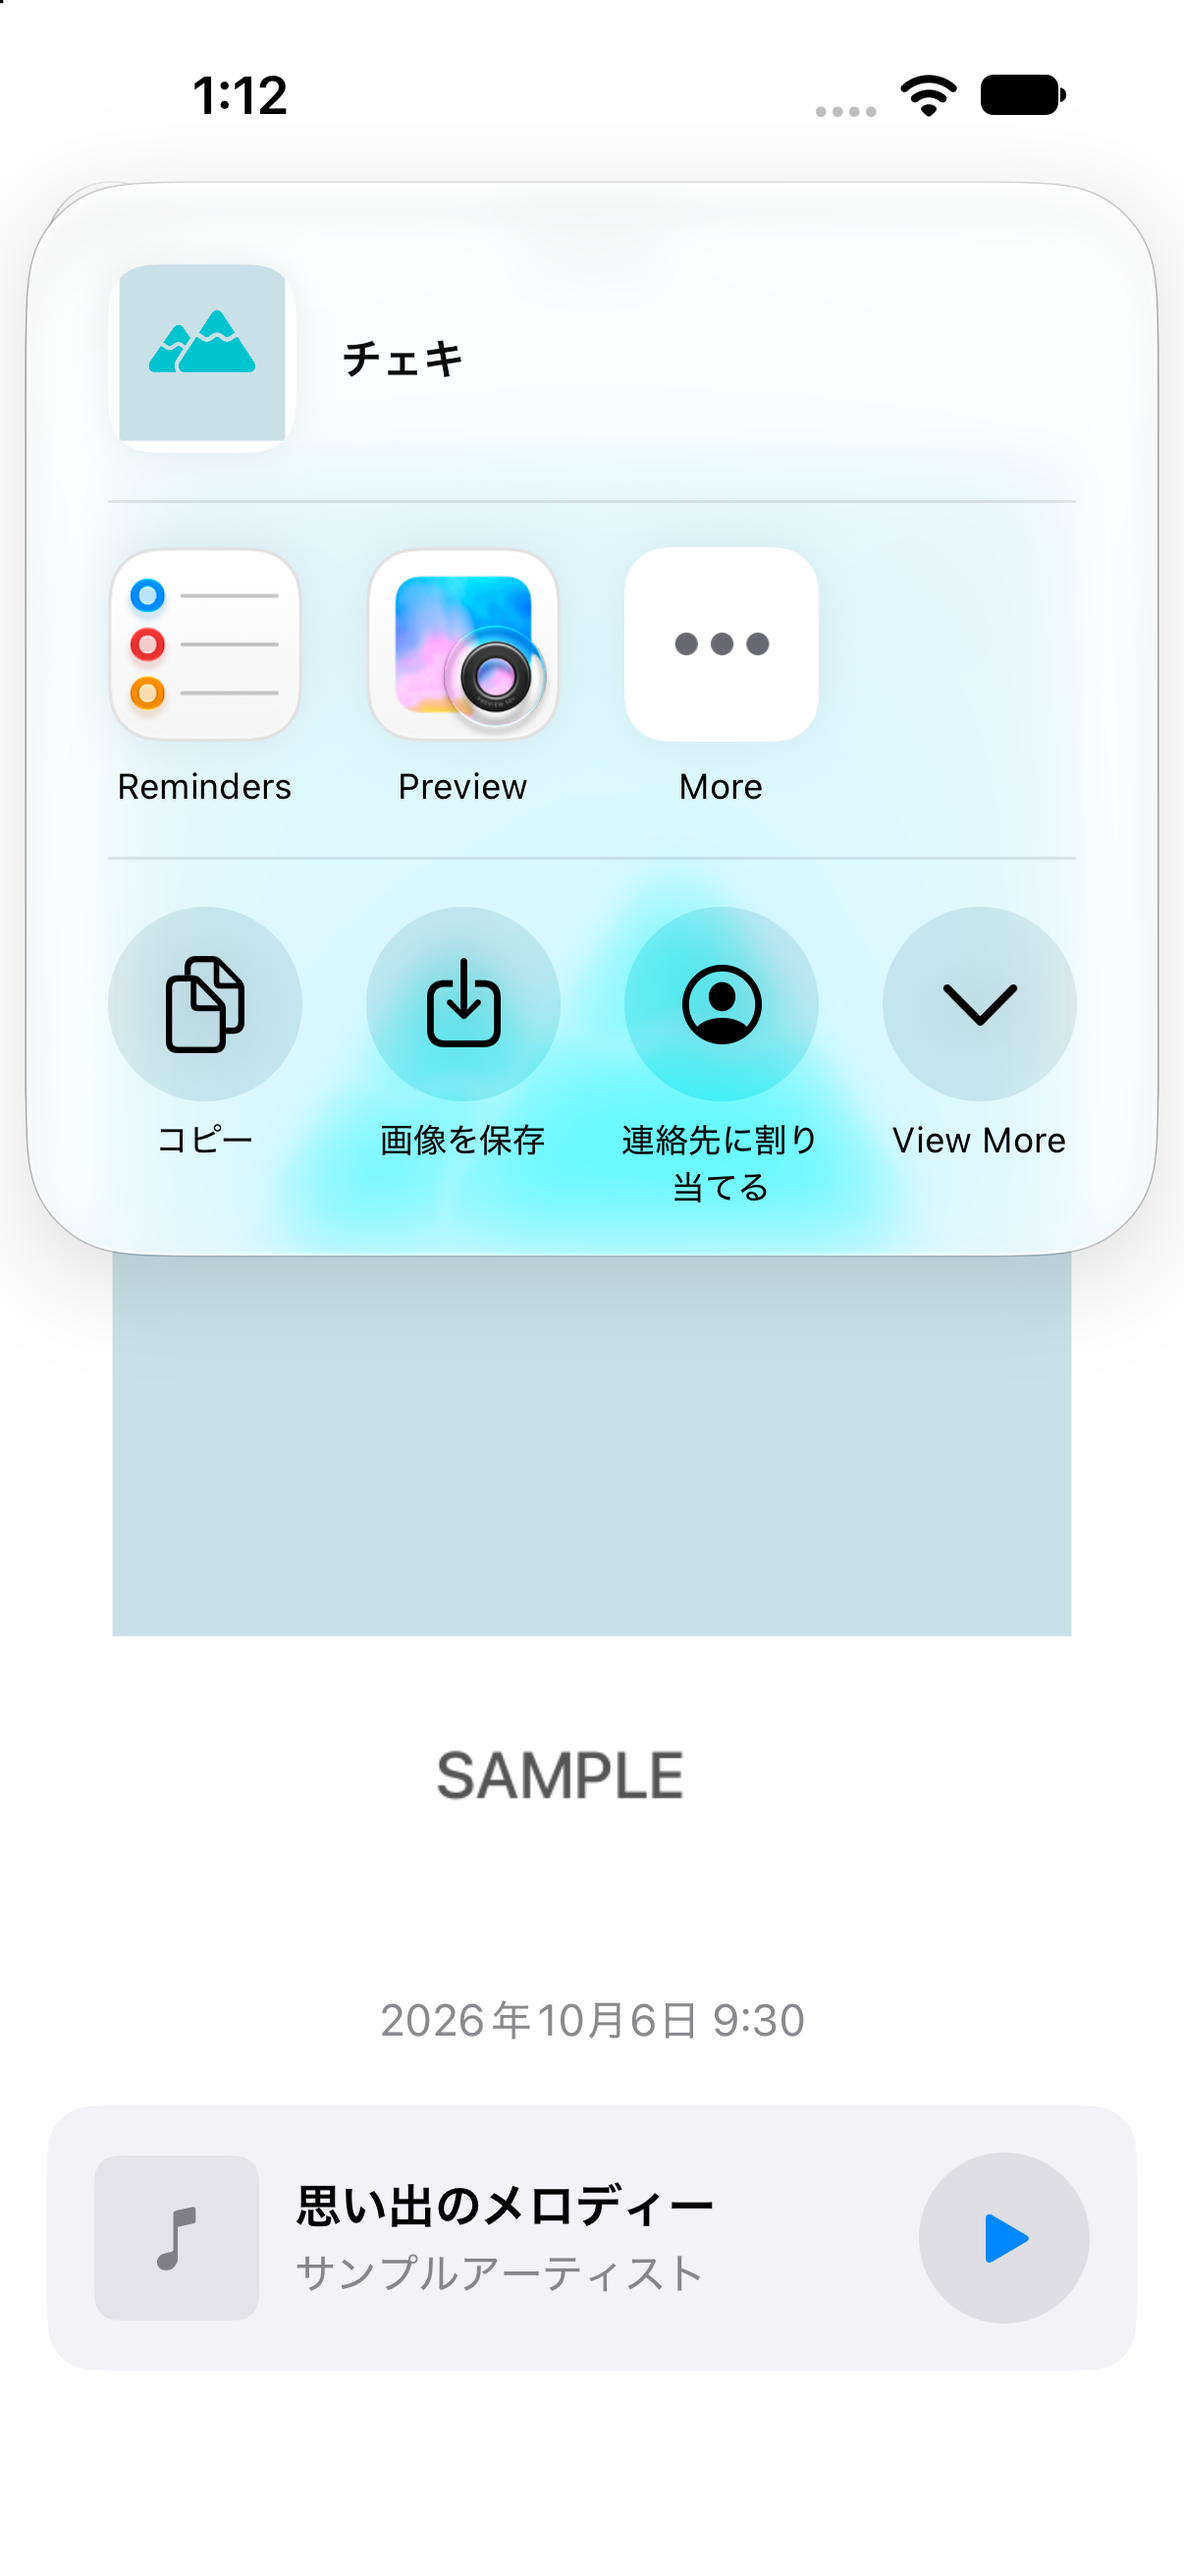
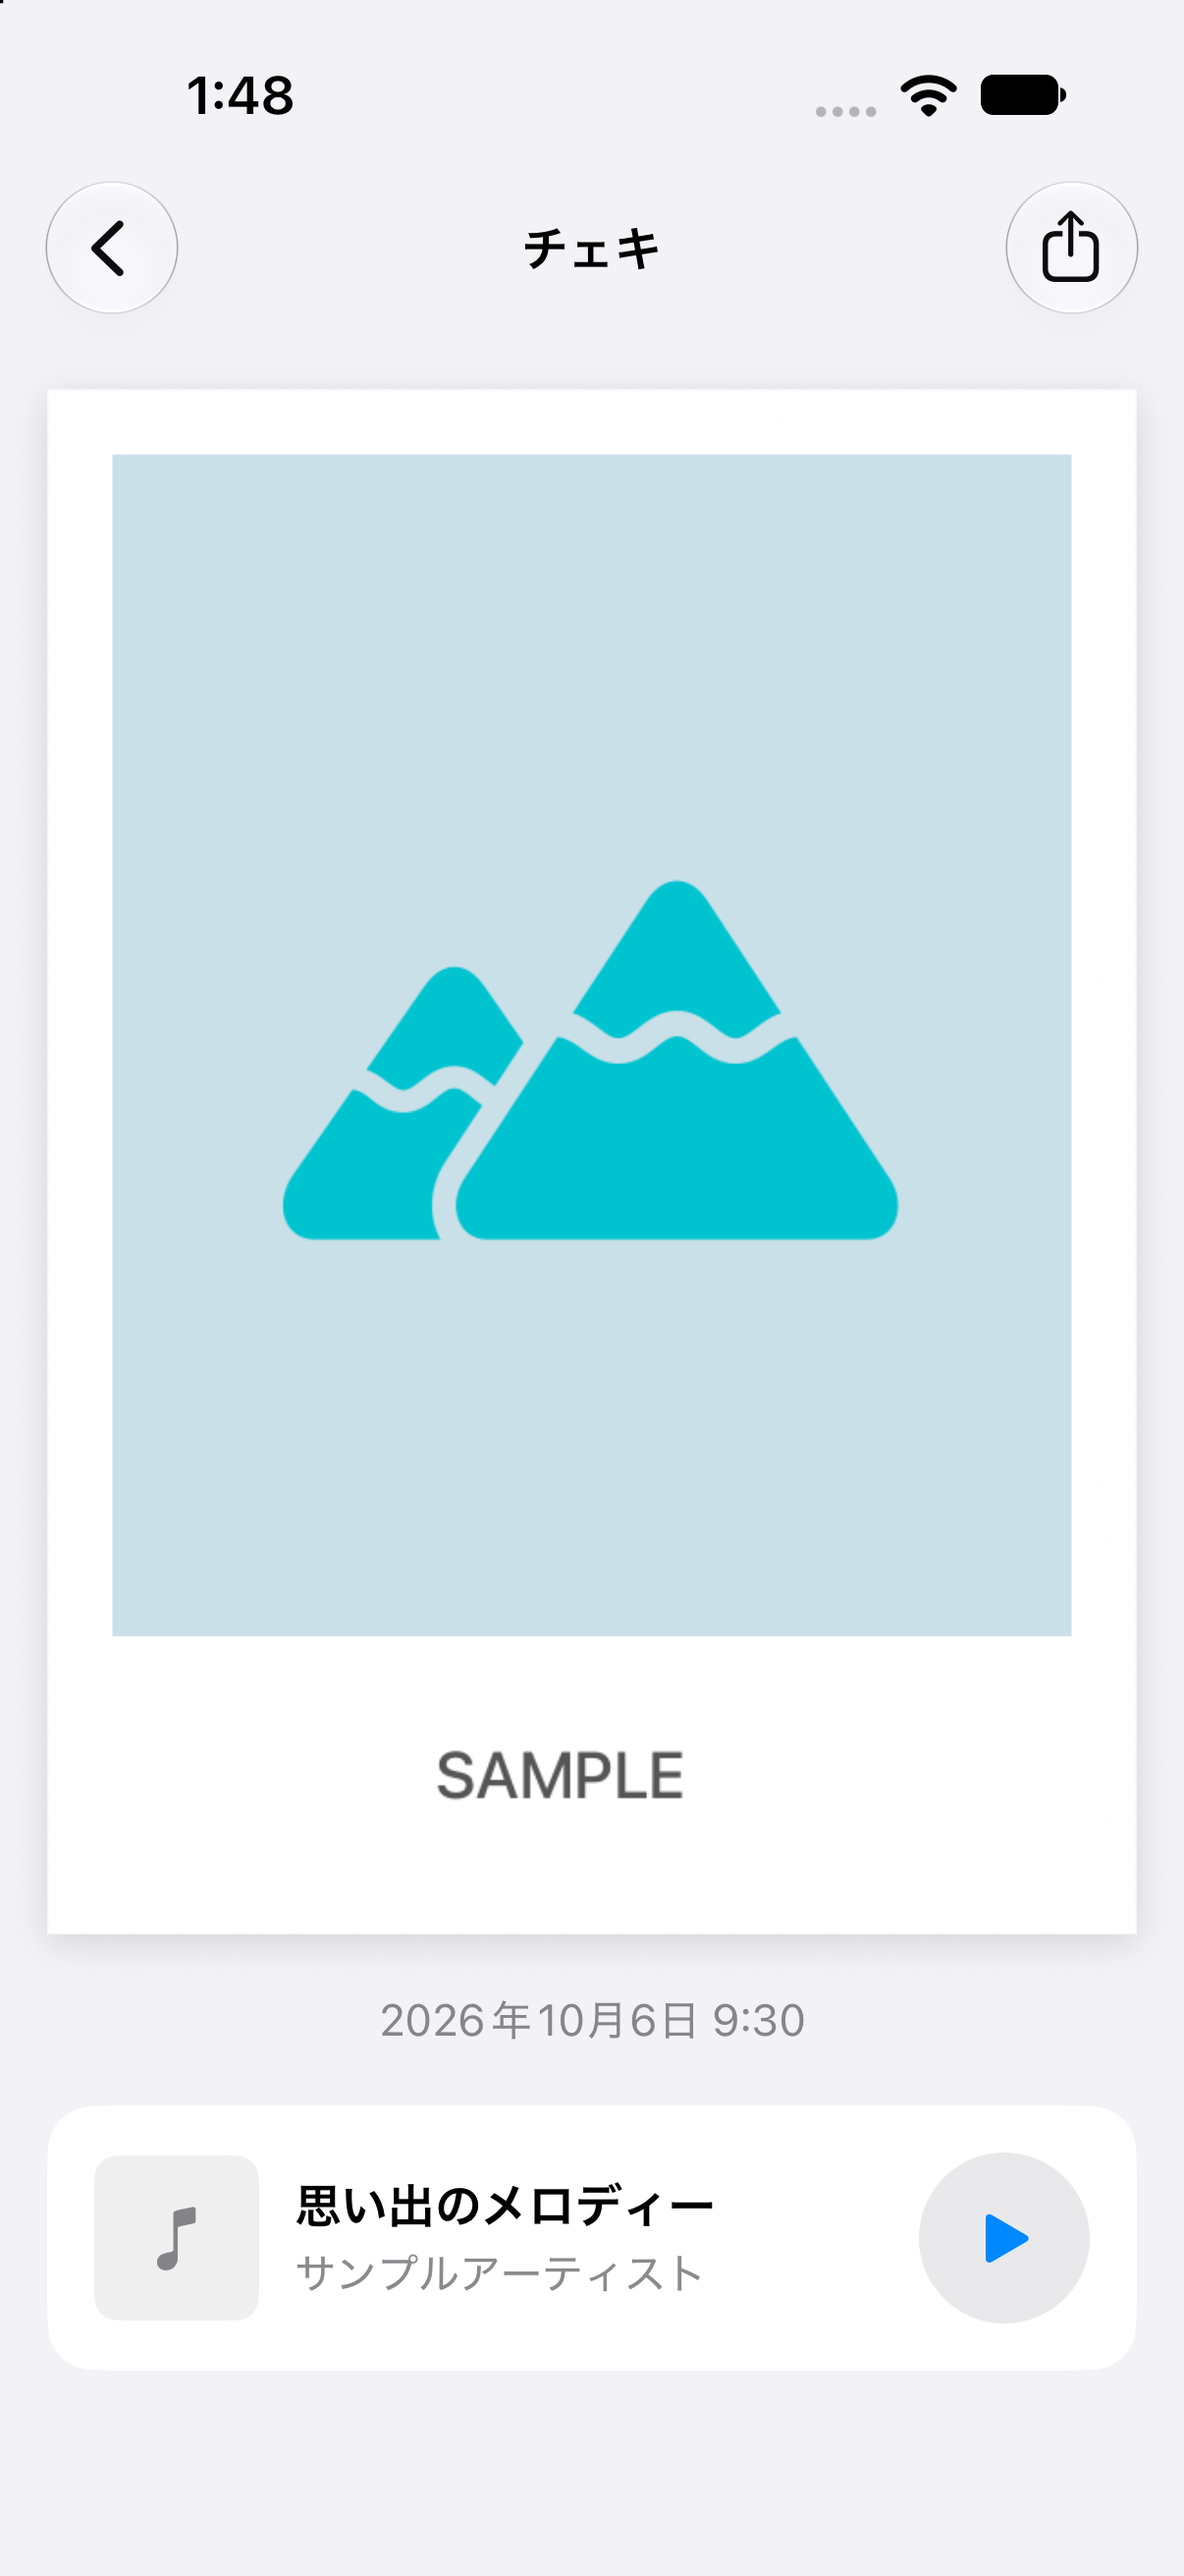
fix: チェキ詳細の背景と写真の境界を明確化

diff --git a/sotsugyo/View/ImageDetailView.swift b/sotsugyo/View/ImageDetailView.swift
@@ -22,6 +22,11 @@ struct ImageDetailView: View {
                     Image(uiImage: image)
                         .resizable()
                         .scaledToFit()
+                        .overlay {
+                            Rectangle()
+                                .strokeBorder(Color(uiColor: .separator).opacity(0.35), lineWidth: 0.5)
+                        }
+                        .shadow(color: .black.opacity(0.12), radius: 6, x: 0, y: 3)
                         .accessibilityLabel("チェキの写真")
                 } else {
                     ContentUnavailableView("画像を表示できません", systemImage: "photo")
@@ -39,7 +44,7 @@ struct ImageDetailView: View {
             .frame(maxWidth: .infinity)
             .padding()
         }
-        .background(Color(uiColor: .systemBackground))
+        .background(Color(uiColor: .systemGroupedBackground))
         .navigationTitle("チェキ")
         .navigationBarTitleDisplayMode(.inline)
         .toolbar {
@@ -134,7 +139,7 @@ struct ImageDetailView: View {
                 }
             }
             .padding()
-            .background(Color(uiColor: .secondarySystemBackground), in: RoundedRectangle(cornerRadius: 16))
+            .background(Color(uiColor: .secondarySystemGroupedBackground), in: RoundedRectangle(cornerRadius: 16))
         } else {
             Label("音楽は設定されていません", systemImage: "music.note")
                 .font(.subheadline)

diff --git a/docs/screenshots/cheki-detail/README.md b/docs/screenshots/cheki-detail/README.md
@@ -11,6 +11,7 @@
 ## 確認結果
 
 - ライト表示とダーク表示で、チェキ全体・日付・曲情報・共有操作を表示できました。
+- 背景をシステムのグループ背景色に変更し、チェキに細い輪郭と控えめな影を追加しました。ライト・ダーク表示で白い枠の境界を再確認しました。これらの装飾は画面上の表示のみで、共有するPNGには加えません。
 - Dynamic Typeのアクセシビリティサイズ（accessibility3）では音楽の行が縦並びになり、スクロールして再生ボタンまで操作できました。
 - 共有シートに「画像を保存」が表示されました。写真への追加許可を求めるダイアログで許可後、写真ライブラリにPNGが保存されました。
 - 保存されたサンプルPNGを確認し、元と同じ600×850ピクセルで、枠と下部の文字が欠けていないことを確認しました。
@@ -19,6 +20,8 @@
 - 失敗する試聴URLを指定して再生ボタンを押すと、エラーメッセージが表示され、試聴ボタンに戻りました。
 
 ## スクリーンショット
+
+ライト・ダークの画像は背景と境界の調整後に再撮影しました。その他は調整前の機能確認時の画像です。
 
 | ライト | ダーク | 共有 |
 | --- | --- | --- |
